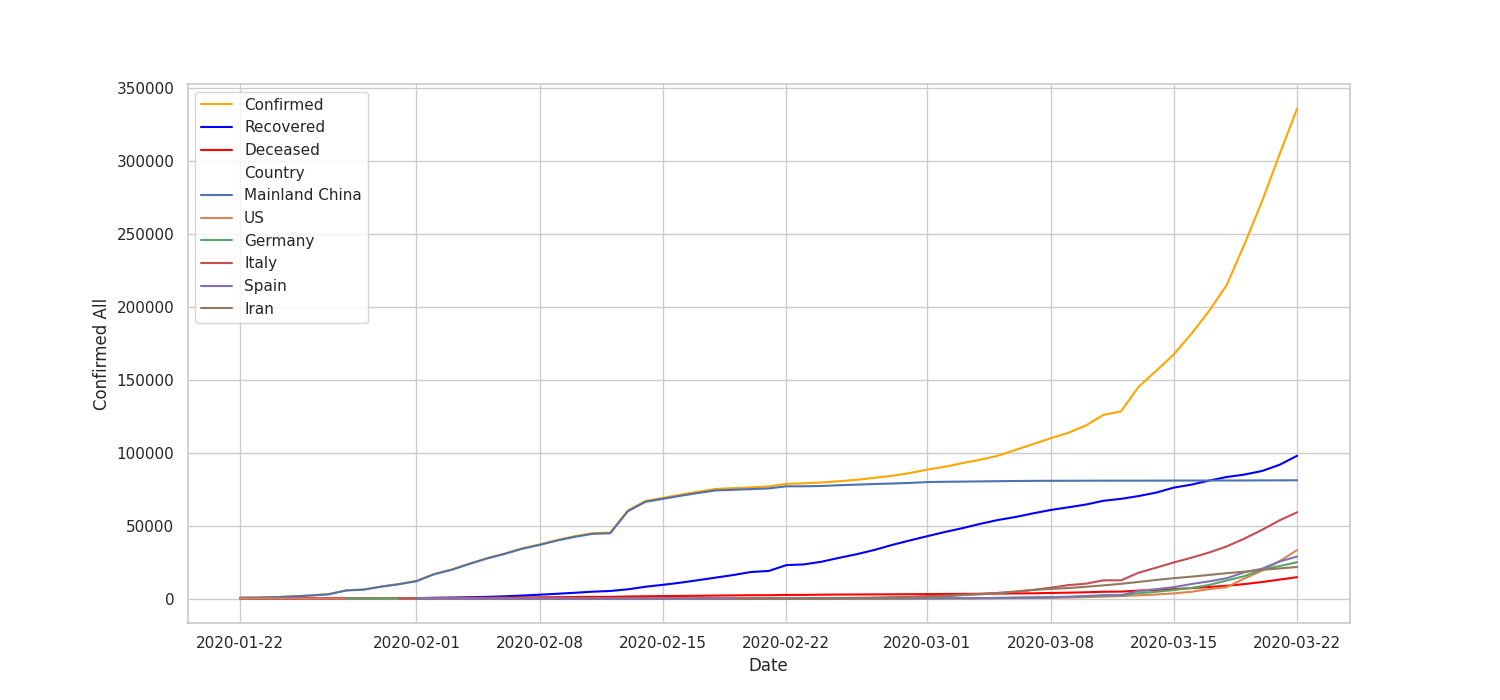
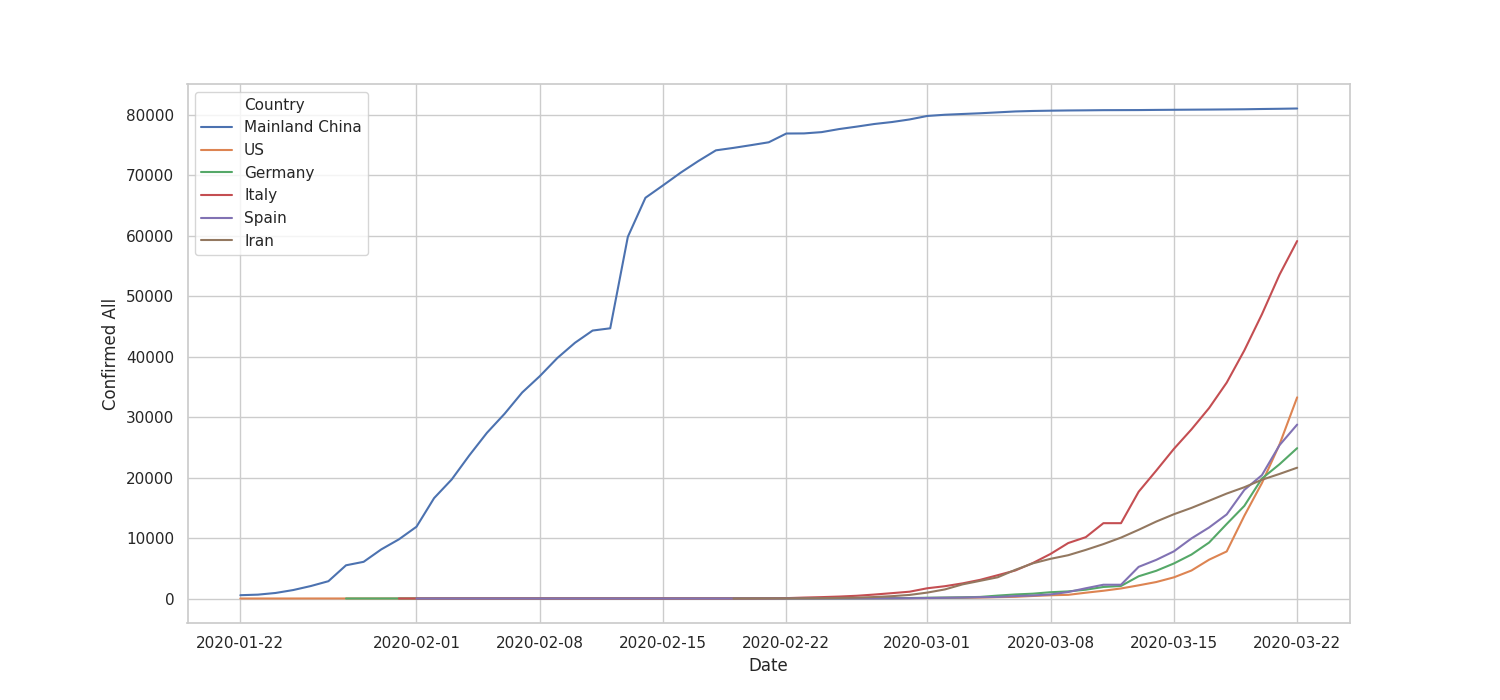
update plots

diff --git a/eda.py b/eda.py
@@ -11,13 +11,13 @@ def name(odir, ofile):
         
     return os.path.join( odir, ofile+'.png')
 #
-def save(fn):
+def save(fig, fn):
     if fn:
         print("Saving '%s'" % fn)
-        plt.savefig(fn)
+        fig.savefig(fn)
         
 #options
-kshow=False
+kshow=True
 koverall = True
 klead = True
 krates = True
@@ -37,16 +37,19 @@ mortal = ld.mortality
 # figure
 sns.set()
 sns.set_style("whitegrid")
-fig, ax = plt.subplots(figsize=(15,7))
+
 
 #plot
 if koverall:
+    fig, ax = plt.subplots(figsize=(15,7))
+    
     ax0 = sns.lineplot(x="Date",
                        y="Confirmed",
                        markers=True,
                        color = 'orange',
                        label="Confirmed",
-                       data=tb)
+                       data=tb,
+                       ax = ax)
     
     ax1 = sns.lineplot(x="Date",
                        y="Recovered",
@@ -64,27 +67,30 @@ if koverall:
                        label="Deceased",
                        ax = ax1)
 
-
-    save(name(odir, "overall"))
+    ax.legend()
+    save(fig, name(odir, "overall"))
 #
 if klead:
     print("lead:", leaders.head)
-    
-    ax = sns.lineplot(x='Date',
-                 y='Confirmed All',
-                 hue="Country",
-                 data = leaders)
 
-    save(name(odir, "leaders"))
+    fig, ax = plt.subplots(figsize=(15,7))
+    ax0 = sns.lineplot(x='Date',
+                       y='Confirmed All',
+                       hue="Country",
+                       data = leaders,
+                       ax = ax)
+    ax.legend()
+    save(fig, name(odir, "leaders"))
 
 if krates:
     print("lead:", leaders.head)
-    
+    fig, ax = plt.subplots(figsize=(15,7))
     ax0 = sns.lineplot(x='Date',
                       y='Deaths_All_Frac',
                       data = groups,
                       color = "red",
-                      label = "Deaths")
+                       label = "Deaths",
+                       ax = ax)
     ax0.set(xlabel='Date', ylabel='Percentage')
     
 
@@ -101,12 +107,12 @@ if krates:
                        color = "orange",
                        label = "Global Confirmed",
                        ax = ax0)
-
-    save(name(odir, "rates"))
+    ax.legend()
+    save(fig, name(odir, "rates"))
         
 if kmortal:
     print("mortal:", mortal.head)
-    
+    fig, ax = plt.subplots(figsize=(15,7))
     #We filter out where mortality rate is above 10% 
     mortal = mortal[mortal.mortality_rate < 10]
 
@@ -117,11 +123,13 @@ if kmortal:
     ax0 = sns.lineplot(x='Date',
                        y='mortality_rate',
                        hue='Country',
-                       data = mortal)
+                       data = mortal,
+                       ax = ax)
 
     ax0.set(xlabel='Date', ylabel='Mortality Percentage')
-
-    save(name(odir, "mortality"))
+    ax.legend()
+    
+    save(fig, name(odir, "mortality"))
 
 if kmortaldense:
     print("mortal density:", mortal.head)
@@ -140,7 +148,7 @@ if kmortaldense:
 
     ax0.set(xlabel='Date', ylabel='Mortality / Population Density')
 
-    save(name(odir, "mortality_normalized_per_pop_density"))
+    save(fig, name(odir, "mortality_normalized_per_pop_density"))
 
     
 plt.tight_layout()
